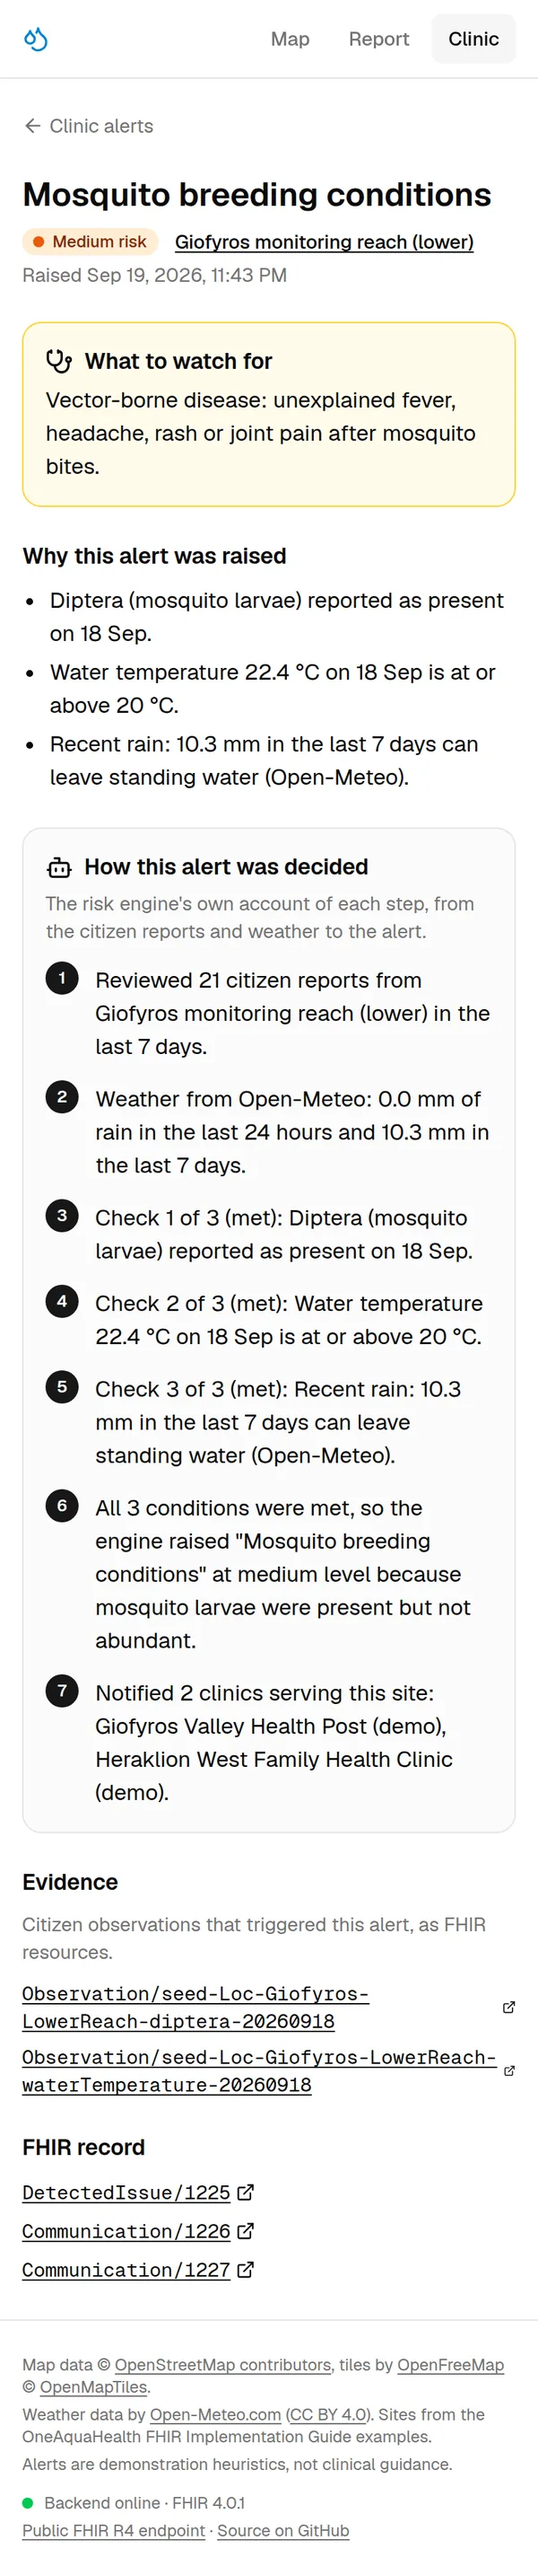
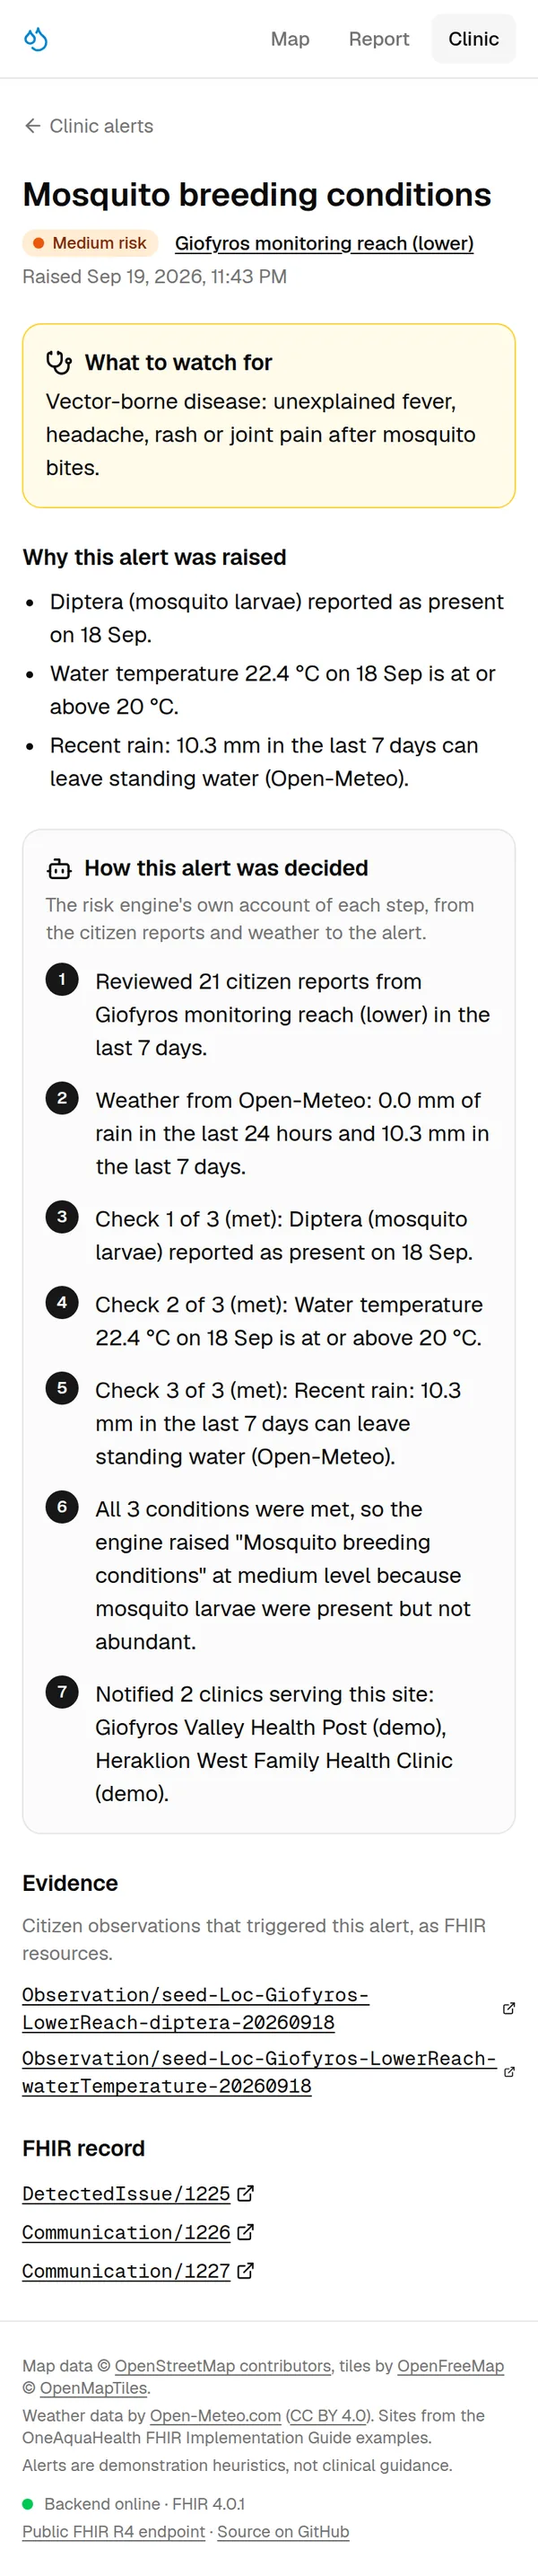
Update screenshots and mark Stage 7 done in the plan

diff --git a/docs/PLAN.md b/docs/PLAN.md
@@ -7,9 +7,10 @@ Tech stack, infrastructure and deployment are described in [ARCHITECTURE.md](ARC
 
 ## Current status
 
-- **Done:** Stages 0–6 and the Stage 7 features: installable PWA with offline report queue, report photos (`Media` + `Binary`), alert narrative, FHIR rest-hook Subscription, accessibility pass. Everything is live.
+- **Done:** Stages 0–7, and the Stage 8 documents (README, SUBMISSION.md, DEMO_SCRIPT.md). Installable PWA with offline report queue, report photos (`Media` + `Binary`), alert narrative, FHIR rest-hook Subscription, accessibility pass, code-review fixes. Everything is live.
 - **Validation:** CI checks resources from the real API code against the OAH IG: 0 errors.
-- **Next:** Stage 7 bug-fix review, then Stage 8: README screenshots, final check of [SUBMISSION.md](SUBMISSION.md), demo video ([DEMO_SCRIPT.md](DEMO_SCRIPT.md)), Devpost submission (the last two need the user).
+- **Next (user):** record the demo video from [DEMO_SCRIPT.md](DEMO_SCRIPT.md), add its link to [SUBMISSION.md](SUBMISSION.md), submit on Devpost before Sep 30, 9:00 PM PDT.
+- **Optional if time remains:** stretch items (FHIR `Bundle` export per site, SMART on FHIR launch), and the review's minor leftovers: duplicate evaluation on API reports (Subscription re-evaluates too; harmless), alert reason dates in UTC, 200-item cap on alert/communication lists.
 - **Live:** frontend https://stream-to-clinic.vercel.app · API https://oneaquahealth.duckdns.org · FHIR https://oneaquahealth.duckdns.org/fhir/metadata
 - **Demo note:** the algal-bloom rule needs a dry week. For the video, the API accepts an optional `WEATHER_OVERRIDE` env var (e.g. `{"rain24h":0,"rain7d":1.2}`); alert reasons then say "demo weather override". Production uses real Open-Meteo weather.
 
@@ -122,19 +123,19 @@ Sites come from the OAH IG examples only (European OAH sites; no other regions).
 - [x] Validation badge and summary in the README
 - **Done when:** CI fails if a mapping produces a resource that does not conform to the OAH profile.
 
-### Stage 7: Polish and should-haves (Sep 26–27)
+### Stage 7: Polish and should-haves ✅ (Sep 20)
 - [x] PWA manifest, installability, offline report queue
 - [x] Accessibility pass (axe: 0 violations on all pages, light and dark)
 - [x] Should-haves in order: alert narrative, photos, FHIR Subscription
-- [ ] Realistic demo dataset and bug fixing
+- [x] Realistic demo dataset (refreshed daily) and bug fixing (code review: pH label, stale alerts, closed-alert status, clock skew, photo CORS)
 
 ### Stage 8: Submission (Sep 28–30)
-- [ ] README: architecture diagram, screenshots, one-command setup
-- [ ] Track alignment statement
-- [ ] Project description: problem, solution, target users, expected impact on ecosystem and human health
-- [ ] Demo video, 3–5 minutes (script in section 6)
+- [x] README: architecture diagram, screenshots, one-command setup
+- [x] Track alignment statement (in [SUBMISSION.md](SUBMISSION.md))
+- [x] Project description: problem, solution, target users, expected impact on ecosystem and human health (in [SUBMISSION.md](SUBMISSION.md))
+- [ ] Demo video, 3–5 minutes (user records; full script in [DEMO_SCRIPT.md](DEMO_SCRIPT.md))
 - [ ] Working prototype link and public FHIR endpoint in the submission
-- [ ] Submit on Devpost by Sep 30 evening IST
+- [ ] Submit on Devpost by Sep 30 evening IST (user)
 
 ## 6. Demo flow (3–5 minute video)
 
